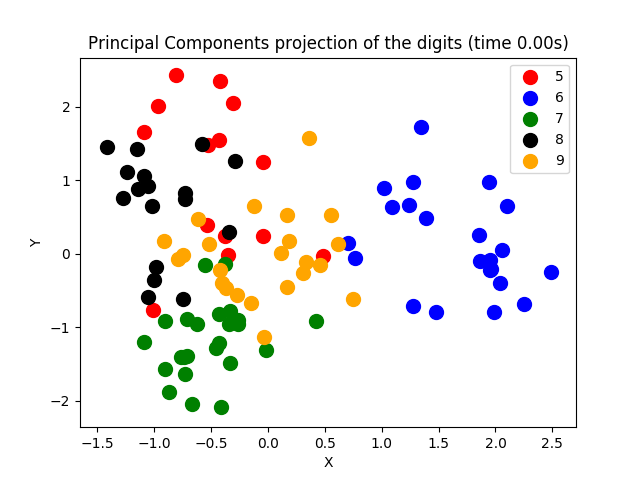
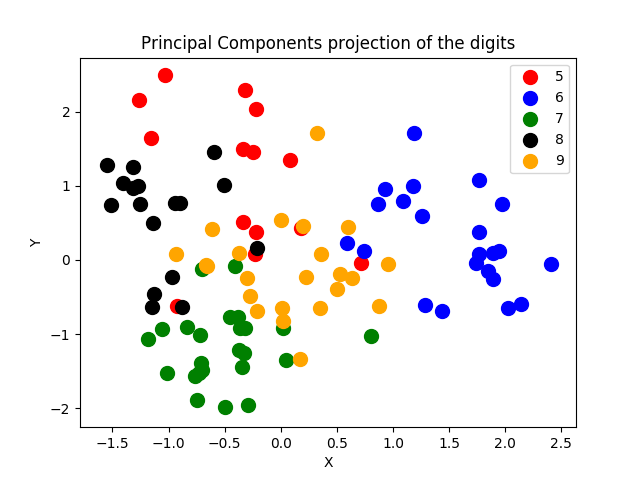
Refactoring

diff --git a/ObjectRecognition/Multi-Shot/Manifold_learning_our_dataset.py b/ObjectRecognition/Multi-Shot/Manifold_learning_our_dataset.py
@@ -1,23 +1,19 @@
-from time import time
 import sklearn.decomposition as deco
 import numpy as np
 import matplotlib.pyplot as plt
-from mpl_toolkits import mplot3d
 from database_actions import get_known_encodings
-from sklearn import (manifold, datasets, decomposition, ensemble,
-                     discriminant_analysis, random_projection)
+from sklearn import (manifold, decomposition, ensemble)
 
-digits = get_known_encodings()
+# Load the data and define the necessary variables
 X, y = get_known_encodings()
 X = np.transpose(X)
 n_samples, n_features = X.shape
 n_neighbors = 21
 
-#----------------------------------------------------------------------
-# Scale and visualize the embedding vectors
-def plot_embedding(X, title=None):
-    # x_min, x_max = np.min(X, 0), np.max(X, 0)
-    # X = (X - x_min) / (x_max - x_min)
+
+
+# Plot the dimensionality reduction frameworks.
+def plot_2D(X, title=None):
     X = (X - np.mean(X, 0)) / np.std(X, 0)
 
     plt.figure()
@@ -37,133 +33,95 @@ def plot_embedding(X, title=None):
     if title is not None:
         plt.title(title)
 
-# #----------------------------------------------------------------------
-# # Projection on to the first 12 priciple components
-print("Computing Linear Discriminant Analysis projection")
-t0 = time()
-x = (X - np.mean(X, 0)) / np.std(X, 0)
+
+
+# Projection on to the first 12 priciple components
+print("Running PCA of 12 PC")
 pca = deco.PCA(n_components = 12)
-x_pca = pca.fit(x).transform(x)
-plot_embedding(x_pca,
-               "Principal Components projection of the digits (time %.2fs)" %
-               (time() - t0))
+x_pca = pca.fit(X).transform(X)
+plot_2D(x_pca, "Principal Components projection of the digits")
 plt.savefig("figures/Reduction_OurDataSet/pca_discriminant")
 
-# #----------------------------------------------------------------------
-# # Isomap projection of the digits dataset
-print("Computing Isomap embedding")
-t0 = time()
-X_iso = manifold.Isomap(n_neighbors, n_components=2).fit_transform(X)
-print("Done.")
-plot_embedding(X_iso,
-               "Isomap projection of the digits (time %.2fs)" %
-               (time() - t0))
+
+
+# Isomap projection of the digits dataset
+print("Running Isomap embedding")
+iso = manifold.Isomap(n_neighbors, n_components=2).fit_transform(X)
+plot_2D(iso, "Isomap projection of the digits")
 plt.savefig("figures/Reduction_OurDataSet/isomap")
 
-# #----------------------------------------------------------------------
-# # Locally linear embedding of the digits dataset
-print("Computing LLE embedding")
-clf = manifold.LocallyLinearEmbedding(n_neighbors, n_components=2,
-                                      method='standard')
-t0 = time()
-X_lle = clf.fit_transform(X)
-print("Done. Reconstruction error: %g" % clf.reconstruction_error_)
-plot_embedding(X_lle,
-               "Locally Linear Embedding of the digits (time %.2fs)" %
-               (time() - t0))
+
+
+# Locally linear embedding of the digits dataset
+print("Running LLE embedding")
+lle = manifold.LocallyLinearEmbedding(n_neighbors, n_components=2, method='standard')
+X_lle = lle.fit_transform(X)
+plot_2D(X_lle, "Locally Linear Embedding of the digits")
 plt.savefig("figures/Reduction_OurDataSet/local_linear_embedding")
 
-# #----------------------------------------------------------------------
-# # Modified Locally linear embedding of the digits dataset
-print("Computing modified LLE embedding")
-clf = manifold.LocallyLinearEmbedding(n_neighbors, n_components=2,
-                                      method='modified')
-t0 = time()
-X_mlle = clf.fit_transform(X)
-print("Done. Reconstruction error: %g" % clf.reconstruction_error_)
-plot_embedding(X_mlle,
-               "Modified Locally Linear Embedding of the digits (time %.2fs)" %
-               (time() - t0))
+
+
+# Modified Locally linear embedding of the digits dataset
+print("Running modified LLE embedding")
+mlle = manifold.LocallyLinearEmbedding(n_neighbors, n_components=2, method='modified')
+X_mlle = mlle.fit_transform(X)
+plot_2D(X_mlle, "Modified Locally Linear Embedding of the digits")
 plt.savefig("figures/Reduction_OurDataSet/modified_local_linear_embedding")
 
-# #----------------------------------------------------------------------
-# # HLLE embedding of the digits dataset
+
+
+# HLLE embedding of the digits dataset
 print("Computing Hessian LLE embedding")
-clf = manifold.LocallyLinearEmbedding(n_neighbors, n_components=2,
-                                      method='hessian')
-t0 = time()
-X_hlle = clf.fit_transform(X)
-print("Done. Reconstruction error: %g" % clf.reconstruction_error_)
-plot_embedding(X_hlle,
-               "Hessian Locally Linear Embedding of the digits (time %.2fs)" %
-               (time() - t0))
+hes = manifold.LocallyLinearEmbedding(n_neighbors, n_components=2, method='hessian')
+X_hlle = hes.fit_transform(X)
+plot_2D(X_hlle, "Hessian Locally Linear Embedding of the digits")
 plt.savefig("figures/Reduction_OurDataSet/hlle")
 
 
-# #----------------------------------------------------------------------
-# # LTSA embedding of the digits dataset
-print("Computing LTSA embedding")
-clf = manifold.LocallyLinearEmbedding(n_neighbors, n_components=2,
-                                      method='ltsa')
-t0 = time()
-X_ltsa = clf.fit_transform(X)
-print("Done. Reconstruction error: %g" % clf.reconstruction_error_)
-plot_embedding(X_ltsa,
-               "Local Tangent Space Alignment of the digits (time %.2fs)" %
-               (time() - t0))
+
+# LTSA embedding of the digits dataset
+print("Running LTSA embedding")
+ltsa = manifold.LocallyLinearEmbedding(n_neighbors, n_components=2, method='ltsa')
+X_ltsa = ltsa.fit_transform(X)
+plot_2D(X_ltsa, "Local Tangent Space Alignment of the digits")
 plt.savefig("figures/Reduction_OurDataSet/ltsa")
 
-# #----------------------------------------------------------------------
-# # MDS  embedding of the digits dataset
-print("Computing MDS embedding")
-clf = manifold.MDS(n_components=2, n_init=1, max_iter=100)
-t0 = time()
-X_mds = clf.fit_transform(X)
-print("Done. Stress: %f" % clf.stress_)
-plot_embedding(X_mds,
-               "MDS embedding of the digits (time %.2fs)" %
-               (time() - t0))
+
+
+# MDS embedding of the digits dataset
+print("Running MDS embedding")
+mds = manifold.MDS(n_components=2, n_init=1, max_iter=100)
+X_mds = mds.fit_transform(X)
+plot_2D(X_mds, "MDS embedding of the digits")
 plt.savefig("figures/Reduction_OurDataSet/mds")
 
-# #----------------------------------------------------------------------
-# # Random Trees embedding of the digits dataset
-print("Computing Totally Random Trees embedding")
-hasher = ensemble.RandomTreesEmbedding(n_estimators=200, random_state=0,
-                                       max_depth=5)
-t0 = time()
-X_transformed = hasher.fit_transform(X)
+
+
+# Random Trees embedding of the digits dataset
+print("Running Totally Random Trees embedding")
+rt = ensemble.RandomTreesEmbedding(n_estimators=200, random_state=0, max_depth=5)
+X_transformed = rt.fit_transform(X)
 pca = decomposition.TruncatedSVD(n_components=2)
 X_reduced = pca.fit_transform(X_transformed)
-
-plot_embedding(X_reduced,
-               "Random forest embedding of the digits (time %.2fs)" %
-               (time() - t0))
+plot_2D(X_reduced, "Random forest embedding of the digits")
 plt.savefig("figures/Reduction_OurDataSet/random_trees")
 
-# #----------------------------------------------------------------------
-# # Spectral embedding of the digits dataset
-print("Computing Spectral embedding")
-embedder = manifold.SpectralEmbedding(n_components=2, random_state=0,
-                                      eigen_solver="arpack")
-t0 = time()
-X_se = embedder.fit_transform(X)
 
-plot_embedding(X_se,
-               "Spectral embedding of the digits (time %.2fs)" %
-               (time() - t0))
+
+# Spectral embedding of the digits dataset
+print("Running Spectral embedding")
+se = manifold.SpectralEmbedding(n_components=2, random_state=0, eigen_solver="arpack")
+X_se = se.fit_transform(X)
+plot_2D(X_se, "Spectral embedding of the digits")
 plt.savefig("figures/Reduction_OurDataSet/spectral")
 
-#----------------------------------------------------------------------
+
+
 # t-SNE embedding of the digits dataset
-print("Computing t-SNE embedding")
+print("Running t-SNE embedding")
 tsne = manifold.TSNE(n_components=2, init='pca', random_state=0)
-t0 = time()
 X_tsne = tsne.fit_transform(X)
-
-
-plot_embedding(X_tsne,
-               "t-SNE embedding of the digits (time %.2fs)" %
-               (time() - t0))
-
+plot_2D(X_tsne, "t-SNE embedding of the digits")
 plt.savefig("figures/Reduction_OurDataSet/tsne")
+
 plt.show()
